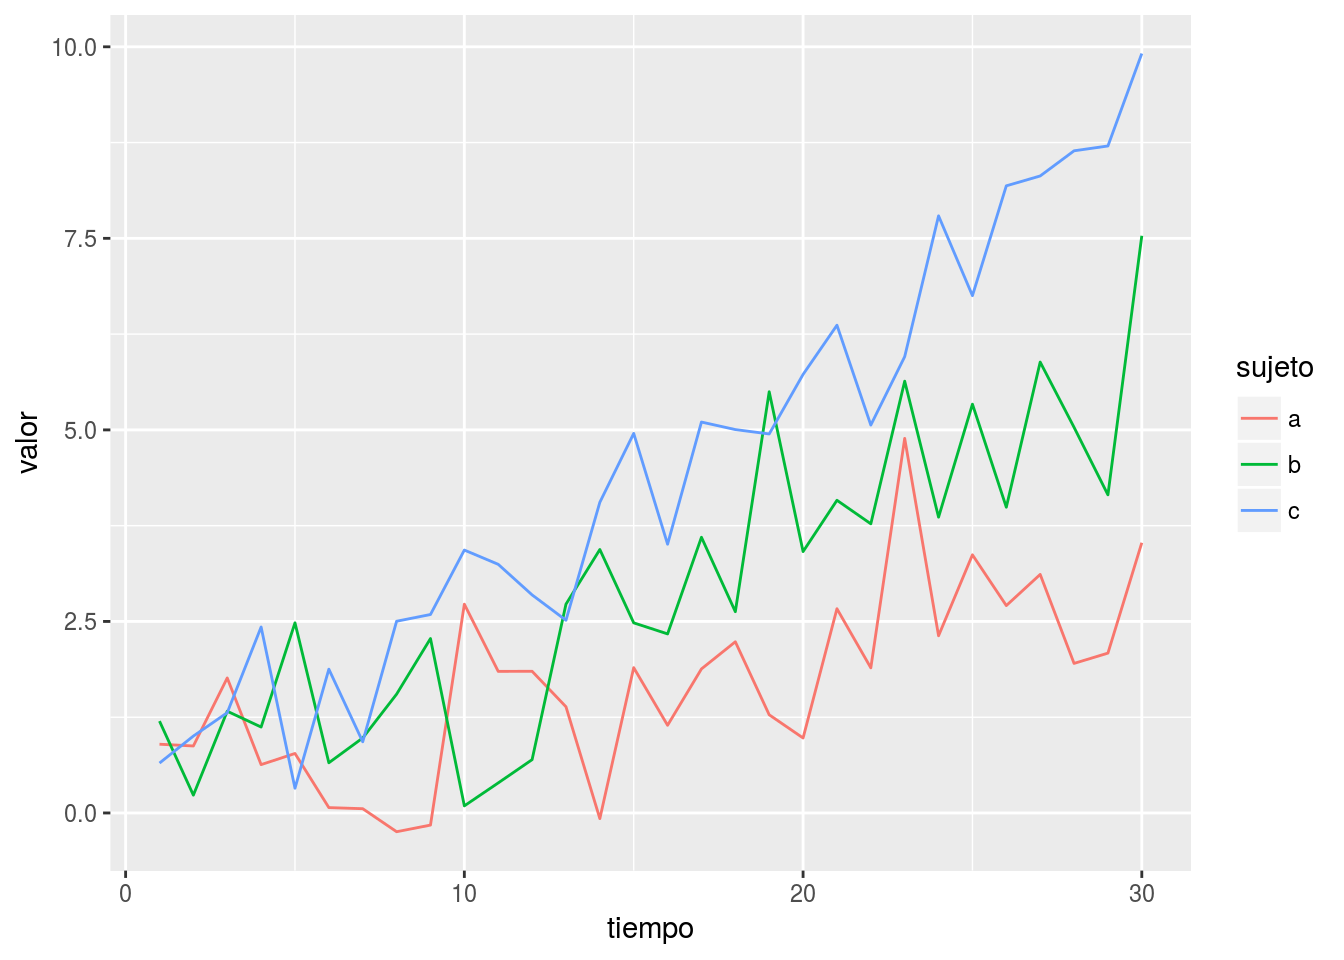
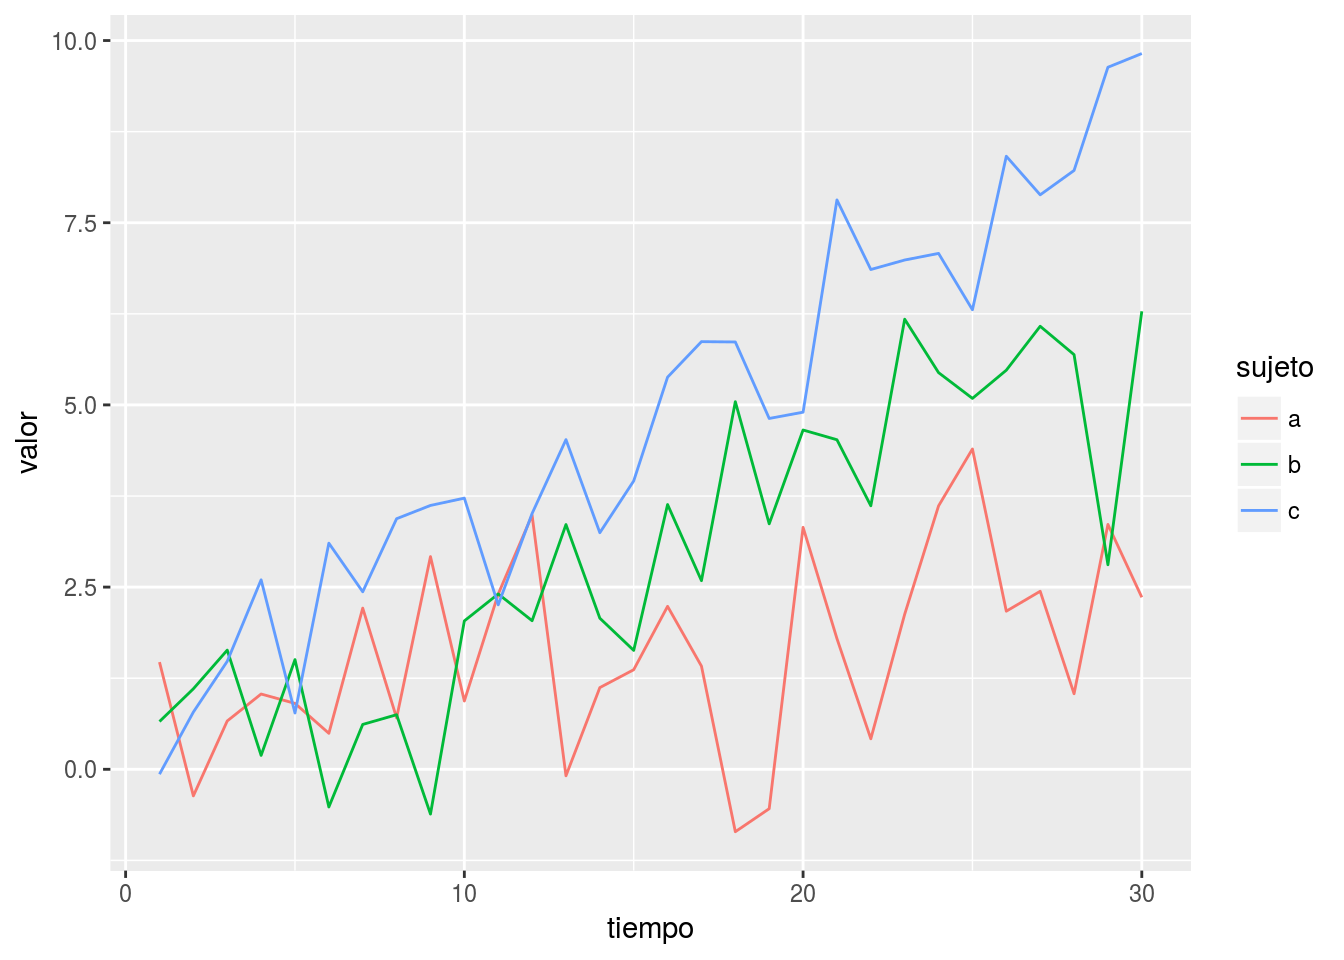
fixed image (1)?

diff --git a/docs/2018/01/como-hacer-efecto-de-relieve-en-r/index.html b/docs/2018/01/como-hacer-efecto-de-relieve-en-r/index.html
@@ -258,7 +258,7 @@ volcano &lt;- as.data.table(melt(volcano, varnames = c(&quot;x&quot;, &quot;y&qu
 <p><img src="https://eliocamp.github.io/codigo-r/codigo-r/post/2018-01-24-como-hacer-efecto-de-relieve-en-r_files/figure-html/unnamed-chunk-2-1.png" width="672" /></p>
 <p>Y está bien. Grafica los datos correctamente y encima elegimos una escala de colores uniforme y no asquerosa. Pero si uno quiere que tenga un poco más de <em>punch</em>, y quizás está dispuesto a perder un poco de exactitud en la representación en favor de una impresión más instintiva de la forma de este volcán, podría preferir que tuviera algún sombreado que de una idea del relieve. Algo llamativo como esto:</p>
 <p align="center">
-<img src = "/images/shading.jpg">
+<img src="https://eliocamp.github.io/codigo-r/images/shading.jpg" />
 </p>
 <p>Lindo, ¿no? En R podemos hacer algo aproximado. Lo que vamos a hacer es calcular la pendiente en cada punto de grilla y luego pensar que la intensidad de las luces y sombras son proporcionales al producto escalar entre ésta y el ángulo con el que llega el Sol.</p>
 <p>Tomando que el Sol brilla desde arriba a la izquierda, si una región tiene pendiente hacia arriba a la derecha, el producto escalar es negativo y tenemos una región de sombra. Lo mismo pasa al contrario… creo. En realidad no pensé esta parte demasiado bien, ¡pero el resultado en el gráfico es bueno! (Créanme 🙏).</p>

diff --git a/content/post/2018-01-24-como-hacer-efecto-de-relieve-en-r.html b/content/post/2018-01-24-como-hacer-efecto-de-relieve-en-r.html
@@ -26,7 +26,7 @@ volcano &lt;- as.data.table(melt(volcano, varnames = c(&quot;x&quot;, &quot;y&qu
 <p><img src="/codigo-r/post/2018-01-24-como-hacer-efecto-de-relieve-en-r_files/figure-html/unnamed-chunk-2-1.png" width="672" /></p>
 <p>Y está bien. Grafica los datos correctamente y encima elegimos una escala de colores uniforme y no asquerosa. Pero si uno quiere que tenga un poco más de <em>punch</em>, y quizás está dispuesto a perder un poco de exactitud en la representación en favor de una impresión más instintiva de la forma de este volcán, podría preferir que tuviera algún sombreado que de una idea del relieve. Algo llamativo como esto:</p>
 <p align="center">
-<img src = "/images/shading.jpg">
+<img src="/images/shading.jpg" />
 </p>
 <p>Lindo, ¿no? En R podemos hacer algo aproximado. Lo que vamos a hacer es calcular la pendiente en cada punto de grilla y luego pensar que la intensidad de las luces y sombras son proporcionales al producto escalar entre ésta y el ángulo con el que llega el Sol.</p>
 <p>Tomando que el Sol brilla desde arriba a la izquierda, si una región tiene pendiente hacia arriba a la derecha, el producto escalar es negativo y tenemos una región de sombra. Lo mismo pasa al contrario… creo. En realidad no pensé esta parte demasiado bien, ¡pero el resultado en el gráfico es bueno! (Créanme 🙏).</p>

diff --git a/docs/2018/01/buen-ejemplo-reproducible-en-r/index.html b/docs/2018/01/buen-ejemplo-reproducible-en-r/index.html
@@ -265,7 +265,9 @@ ggplot(df, aes(x, y)) +
    geom_tile(aes(fill = z))</code></pre>
 <p><img src="https://eliocamp.github.io/codigo-r/codigo-r/post/2018-01-06-buen-ejemplo-reproducible_files/figure-html/unnamed-chunk-3-1.png" width="672" /></p>
 <p>o para asignar valores a distintos factores</p>
-<pre class="r"><code>df &lt;- expand.grid(tiempo = 1:30, sujeto = factor(letters[1:3]))
+<pre class="r"><code>library(ggplot2)
+df &lt;- expand.grid(tiempo = 1:30, sujeto = factor(letters[1:3]))
+set.seed(42)
 df$valor &lt;- with(df, tiempo*0.1*as.numeric(sujeto) + rnorm(nrow(df)))
 ggplot(df, aes(tiempo, valor, color = sujeto)) +
    geom_line()</code></pre>
@@ -306,7 +308,8 @@ ggplot(df, aes(tiempo, valor, color = sujeto)) +
 <pre><code>```r
 library(ggplot2)
 df &lt;- expand.grid(tiempo = 1:30, sujeto = factor(letters[1:3]))
-df$valor &lt;- with(df, tiempo*0.1*as.numeric(sujeto) + rnorm(nrow(df)))
+dfset.seed(42)
+$valor &lt;- with(df, tiempo*0.1*as.numeric(sujeto) + rnorm(nrow(df)))
 ggplot(df, aes(tiempo, valor, color = sujeto)) +
    geom_line()
 ```

diff --git a/content/post/2018-01-06-buen-ejemplo-reproducible.html b/content/post/2018-01-06-buen-ejemplo-reproducible.html
@@ -36,7 +36,9 @@ ggplot(df, aes(x, y)) +
    geom_tile(aes(fill = z))</code></pre>
 <p><img src="/codigo-r/post/2018-01-06-buen-ejemplo-reproducible_files/figure-html/unnamed-chunk-3-1.png" width="672" /></p>
 <p>o para asignar valores a distintos factores</p>
-<pre class="r"><code>df &lt;- expand.grid(tiempo = 1:30, sujeto = factor(letters[1:3]))
+<pre class="r"><code>library(ggplot2)
+df &lt;- expand.grid(tiempo = 1:30, sujeto = factor(letters[1:3]))
+set.seed(42)
 df$valor &lt;- with(df, tiempo*0.1*as.numeric(sujeto) + rnorm(nrow(df)))
 ggplot(df, aes(tiempo, valor, color = sujeto)) +
    geom_line()</code></pre>
@@ -77,7 +79,8 @@ ggplot(df, aes(tiempo, valor, color = sujeto)) +
 <pre><code>```r
 library(ggplot2)
 df &lt;- expand.grid(tiempo = 1:30, sujeto = factor(letters[1:3]))
-df$valor &lt;- with(df, tiempo*0.1*as.numeric(sujeto) + rnorm(nrow(df)))
+dfset.seed(42)
+$valor &lt;- with(df, tiempo*0.1*as.numeric(sujeto) + rnorm(nrow(df)))
 ggplot(df, aes(tiempo, valor, color = sujeto)) +
    geom_line()
 ```
